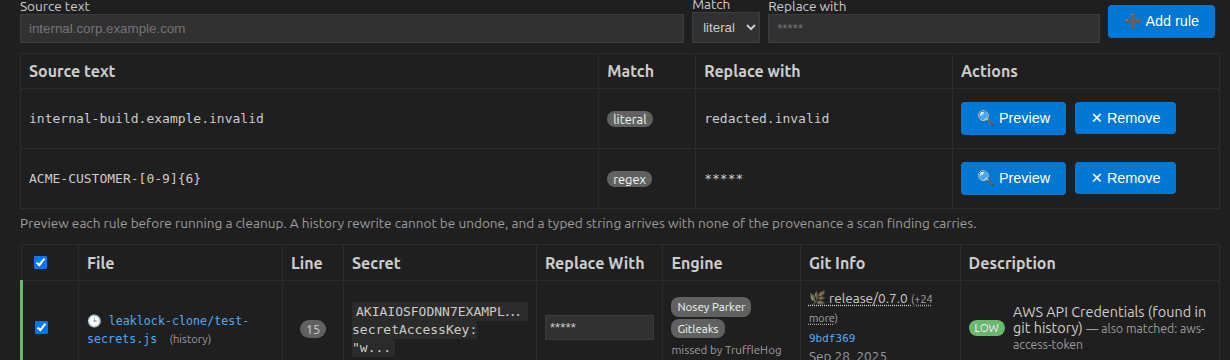
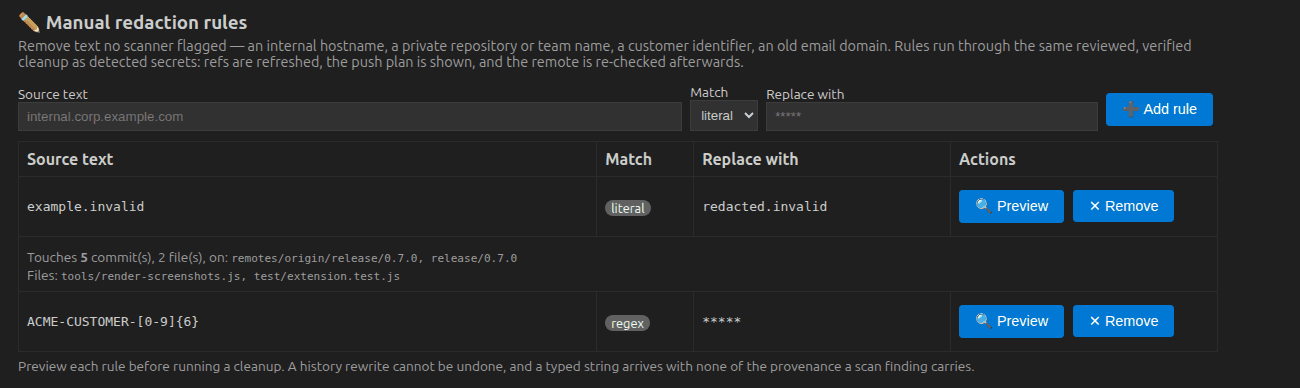
docs: recapture the manual redaction screenshot
The previous crop was taken with coordinates from an earlier layout, so it began
part-way into the form — the heading and its explanation were missing — and
ended mid-way through a results-table row.

Recaptured by isolating the component itself rather than guessing pixel offsets,
so the whole section is in frame: heading, the add-rule form, a literal rule, a
regex rule, and the closing guidance. The dry run underneath now shows real
numbers from a real repository (5 commits, 2 files, and the branches they are
on) instead of being omitted.

Recapturing it is what surfaced the symbolic-ref bug fixed in fc93341: the
preview in the earlier image was displaying
"remotes/origin/HEAD -> origin/release/0.7.0" as a branch name.

Also corrects the declared width/height for two images. Both attributes exist so
the browser can reserve space before the image loads, but they drift whenever a
screenshot is recaptured at a slightly different height, and a stale pair makes
the browser stretch the image — worse than declaring nothing at all. A test now
compares every declared pair against the PNG header, and checks that every
referenced image exists.

diff --git a/docs/website/index.html b/docs/website/index.html
@@ -286,7 +286,7 @@ footer .credit{margin-left:auto}
     <div class="shots">
       <figure class="shot lead">
         <a class="frame" href="img/scan-results-table.png">
-          <img src="img/scan-results-table.png" width="1322" height="1826" loading="lazy" decoding="async"
+          <img src="img/scan-results-table.png" width="1322" height="1815" loading="lazy" decoding="async"
                alt="The Leak Lock scanner showing six findings from a real three-engine scan. Each row lists the file, line number, the matched secret, a replacement value, which engines found it and which missed it, the branch, commit hash and date, and a severity label. The first row was found by both Nosey Parker and Gitleaks, the second by both Nosey Parker and TruffleHog. Above the table are the scan coverage summary and the manual redaction rules editor; below it are buttons to prepare and run a BFG-based or git-only cleanup.">
         </a>
         <figcaption>
@@ -317,8 +317,8 @@ footer .credit{margin-left:auto}
 
       <figure class="shot">
         <a class="frame" href="img/manual-redaction.png">
-          <img src="img/manual-redaction.png" width="1230" height="370" loading="lazy" decoding="async"
-               alt="The Manual redaction rules editor, with fields for source text, a literal or regex match mode and a replacement value, and a table of two rules: an internal hostname matched literally, showing a preview of the twelve commits and two files it touches across two branches, and a customer identifier matched by regular expression.">
+          <img src="img/manual-redaction.png" width="1300" height="388" loading="lazy" decoding="async"
+               alt="The Manual redaction rules editor, with fields for source text, a literal or regex match mode and a replacement value, and a table of two rules: a hostname matched literally, with a dry-run result underneath reporting the five commits and two files it touches and the branches they are on, and a customer identifier matched by regular expression.">
         </a>
         <figcaption>
           <b>Remove anything, not just what a scanner flagged</b>

diff --git a/test/extension.test.js b/test/extension.test.js
@@ -2699,3 +2699,48 @@ suite('Containing-branch parsing', () => {
 		assert.deepStrictEqual(parse(null), []);
 	});
 });
+
+suite('Website image dimensions', () => {
+	const fs = require('fs');
+	const path = require('path');
+
+	test('every declared width/height matches the file on disk', () => {
+		// Both attributes are declared so the browser can reserve space before the
+		// image loads. When they drift from the real size the browser stretches the
+		// image instead, which is worse than declaring nothing — and it drifts every
+		// time a screenshot is recaptured at a slightly different height.
+		const root = path.join(__dirname, '..', 'docs', 'website');
+		const html = fs.readFileSync(path.join(root, 'index.html'), 'utf8');
+		const problems = [];
+
+		for (const match of html.matchAll(/<img src="(img\/[^"]+)" width="(\d+)" height="(\d+)"/g)) {
+			const [, src, width, height] = match;
+			const file = path.join(root, src);
+			assert.ok(fs.existsSync(file), `${src} is referenced but missing`);
+
+			// PNG header: width and height are big-endian 32-bit at offsets 16 and 20.
+			const header = Buffer.alloc(24);
+			const fd = fs.openSync(file, 'r');
+			try {
+				fs.readSync(fd, header, 0, 24, 0);
+			} finally {
+				fs.closeSync(fd);
+			}
+			const actual = { w: header.readUInt32BE(16), h: header.readUInt32BE(20) };
+			if (actual.w !== Number(width) || actual.h !== Number(height)) {
+				problems.push(`${src}: declared ${width}x${height}, actual ${actual.w}x${actual.h}`);
+			}
+		}
+
+		assert.ok(problems.length > 0 === false, problems.join('; '));
+	});
+
+	test('every referenced image exists', () => {
+		const root = path.join(__dirname, '..', 'docs', 'website');
+		const html = fs.readFileSync(path.join(root, 'index.html'), 'utf8');
+		const missing = Array.from(html.matchAll(/src="(img\/[^"]+)"/g))
+			.map(m => m[1])
+			.filter(src => !fs.existsSync(path.join(root, src)));
+		assert.deepStrictEqual(missing, []);
+	});
+});

diff --git a/CHANGELOG.md b/CHANGELOG.md
@@ -40,6 +40,7 @@
 - **A typo in `leakLock.scan.engines` no longer produces a silent all-clear.** Unknown ids were filtered out without comment, so a misspelling could leave no engines at all and a scan that reported zero findings — indistinguishable from a clean repository. Unknown ids are named, and an empty engine list is an error.
 
 ### Fixed — Sixth Review Pass
+- **Website image dimensions matched the files again.** Both `width` and `height` are declared so the browser can reserve space before an image loads, but they drift every time a screenshot is recaptured at a slightly different height — and a stale pair makes the browser stretch the image, which is worse than declaring nothing. Corrected, and a test now compares every declared pair against the PNG header.
 - **A symbolic ref was displayed as a branch.** `git branch -a --contains` emits `remotes/origin/HEAD -> origin/main` alongside real branches, and the manual-rule preview listed that whole string as though it were a branch name. The results table already filtered it; the preview added later did not. Both now share one parser, which also handles the `*` current-branch marker and `(HEAD detached at …)`.
 
 ### Fixed — Fifth Review Pass
